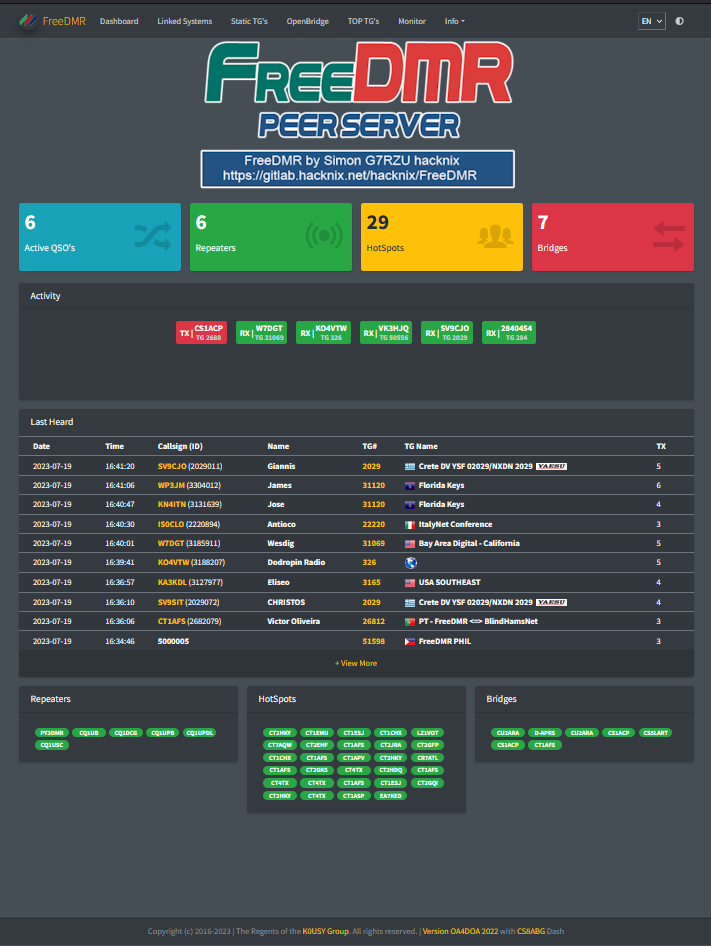
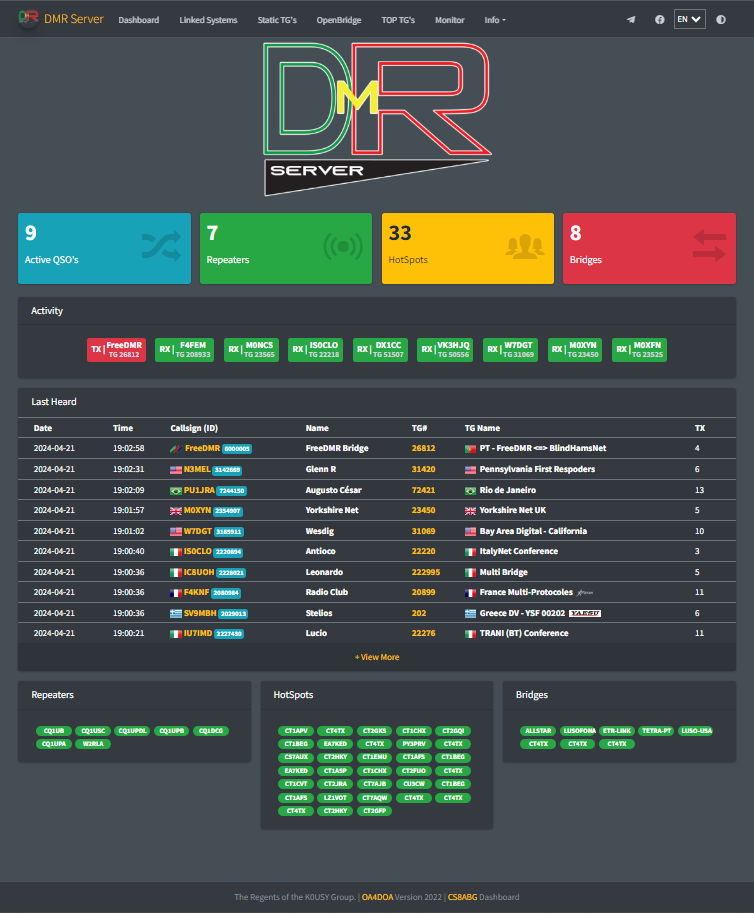
debranding

diff --git a/html/include/navbar.php b/html/include/navbar.php
@@ -1,9 +1,9 @@
 <nav class="main-header navbar navbar-expand-lg navbar-light navbar-dark text-sm">
     <div class="container text-nowrap">
         <a href="#" class="navbar-brand">
-            <img src="img/Logo_mini.png" alt="FreeDMR" class="brand-image img-circle elevation-3"
+            <img src="img/Logo_mini.png" alt="<?php echo $config['DASHBOARD']['NAVTITLE']; ?>" class="brand-image img-circle elevation-3"
                 style="opacity: .8">
-            <span class="brand-text font-weight-light">FreeDMR</span>
+            <span class="brand-text font-weight-light"><?php echo $config['DASHBOARD']['NAVTITLE']; ?></span>
         </a>
         <button class="navbar-toggler order-1" type="button" data-bs-toggle="collapse" data-bs-target="#navbarCollapse"
             aria-controls="navbarCollapse" aria-expanded="false" aria-label="Toggle navigation">
@@ -40,12 +40,16 @@
                         <li>
                             <a href="index.php?p=calc" class="dropdown-item" id="nav_calc"></a>
                         </li>
-                        <li>
-                            <a href="index.php?p=wwtg" class="dropdown-item" id="nav_tglst"></a>
-                        </li>
-                        <li>
-                            <a href="index.php?p=wwbridges" class="dropdown-item" id="nav_brdglst"></a>
-                        </li>
+                        <?php
+                        if (isset($config['DASHBOARD']['TG_LIST'])) {
+                            echo '<li><a href="index.php?p=wwtg" class="dropdown-item" id="nav_tglst"></a></li>';
+                        }
+                        ?>
+                        <?php
+                        if (isset($config['DASHBOARD']['BRIDGES_LIST'])) {
+                            echo '<li><a href="index.php?p=wwbridges" class="dropdown-item" id="nav_brdglst"></a></li>';
+                        }
+                        ?>
                         <?php
                         if (isset($config['DASHBOARD']['SERVER_LIST'])) {
                             echo '<li><a href="index.php?p=wwservers" class="dropdown-item" id="nav_srvlst"></a></li>';

diff --git a/html/include/footer.php b/html/include/footer.php
@@ -1,13 +1,15 @@
+<!-- Credits: SP2ONG 2019-2022 -->
+<!-- Credits: OA4DOA 2022 -->
+<!-- THIS COPYRIGHT NOTICE MUST BE DISPLAYED AS A CONDITION OF THE LICENCE GRANT FOR THIS SOFTWARE. ALL DERIVATEIVES WORKS MUST CARRY THIS NOTICE -->
 <div class="text-center d-none d-sm-inline">
         <div><?php
         if (isset($config['DASHBOARD']['FOOTER1']) && !empty($config['DASHBOARD']['FOOTER1'])) {
             $footer1Value = $config['DASHBOARD']['FOOTER1'];
             echo $footer1Value . ' | ';
         }
-        ?>Copyright (c) 2016-2023 | The Regents of the <a
-                        target="_blank" href=http://k0usy.mystrikingly.com>K0USY Group</a>. All rights reserved. | <a
+        ?>The Regents of the K0USY Group. | <a
                         title="FDMR Monitor OA4DOA v270422" target="_blank"
-                        href="https://github.com/yuvelq/FDMR-Monitor.git">Version OA4DOA 2022</a> with <a title="CS8ABG Dash v24.04.02" href=https://github.com/CS8ABG/FDMR-Monitor.git>CS8ABG</a> Dash
+                        href="https://github.com/yuvelq/FDMR-Monitor.git">OA4DOA</a> Version 2022 | <a title="CS8ABG Dash v24.04" href=https://github.com/CS8ABG/FDMR-Monitor.git>CS8ABG</a> Dashboard
                         <?php
         if (isset($config['DASHBOARD']['FOOTER2']) && !empty($config['DASHBOARD']['FOOTER2'])) {
             $footer2Value = $config['DASHBOARD']['FOOTER2'];
@@ -16,6 +18,3 @@
         ?>
                 </div>
 </div>
-<!-- Credits: SP2ONG 2019-2022 -->
-<!-- Credits: OA4DOA 2022 -->
-<!-- THIS COPYRIGHT NOTICE MUST BE DISPLAYED AS A CONDITION OF THE LICENCE GRANT FOR THIS SOFTWARE. ALL DERIVATEIVES WORKS MUST CARRY THIS NOTICE -->

diff --git a/config.py b/config.py
@@ -60,9 +60,9 @@ def mk_config(cfg_file):
                     "LCL_PEER": conf.get(section, "LOCAL_PEER_FILE"),
                     "LCL_TGID": conf.get(section, "LOCAL_TGID_FILE"),
                     "RELOAD_TIME": conf.getint(section, "RELOAD_TIME", fallback=7) * 864000,
-                    "PEER_URL": conf.get(section, "PEER_URL", fallback="http://freedmr.cymru/talkgroups/rptrs.json"),
-                    "SUBS_URL": conf.get(section, "SUBSCRIBER_URL", fallback="http://freedmr.cymru/talkgroups/local_subscriber_ids.csv"),
-                    "TGID_URL": conf.get(section, "TGID_URL", fallback="http://downloads.freedmr.uk/downloads/UKtalkgroup_ids.json")
+                    "PEER_URL": conf.get(section, "PEER_URL"),
+                    "SUBS_URL": conf.get(section, "SUBSCRIBER_URL"),
+                    "TGID_URL": conf.get(section, "TGID_URL")
                     }
             elif section == "LOGGER":
                 CONF["LOG"] = {

diff --git a/html/include/wwbridges.php b/html/include/wwbridges.php
@@ -18,7 +18,7 @@
                 <tbody>
                   <?php
                     // URL of the CSV file
-                    $csvFile = 'https://freedmr.cymru/talkgroups/Talkgroups_Bridges.csv';
+                    $csvFile = $config['DASHBOARD']['BRIDGES_LIST'];
 
                     // Read the CSV file
                     $fileHandle = fopen($csvFile, 'r');

diff --git a/html/include/wwtg.php b/html/include/wwtg.php
@@ -18,7 +18,7 @@
                 <tbody>
                   <?php
                     // URL of the CSV file
-                    $csvFile = 'https://freedmr.cymru/talkgroups/Talkgroups_FreeDMR.csv';
+                    $csvFile = $config['DASHBOARD']['TG_LIST'];
 
                     // Read the CSV file
                     $fileHandle = fopen($csvFile, 'r');

diff --git a/README.md b/README.md
@@ -1,30 +1,9 @@
-**Dashboard for FreeDMR Servers**
+**Dashboard for FDMR Servers**
 
 ![Dashboard](./screenshot.png)
 
 ***This version has been forked from FDMR Monitor by OA4DOA.***
 
-
-## Changes to the Dashboard
-
-*** 2024/04/02 ***
-- Fix otions calculator errors
-- Added docker support https://github.com/CS8ABG/FDMR-Monitor/tree/main/docker
-
-*** 2023/07/29 ***
-- Added new flags.
-- Introduced a new stanza called `DASHBOARD` in the configuration file(fdmr-mon.cfg).
-- Users can now customize the dashboard settings using the `DASHBOARD` stanza.
-- Display country flag before callsign in the lastheard table.
-- Added power, latitude, longitude, and height in repeater/hotspot descriptions.
-- Improved layout: Boxes and tables now hide when no repeaters, hotspots, or bridges are present.
-
-*** 2023/07/23 ***
-- The dashboard is now fully responsive and adapts to different screen sizes and devices.
-- Users can now switch between dark and light mode for a more comfortable viewing experience.
-- The dashboard now supports multiple languages, making it more accessible to users around the world.
-- The main page of the dashboard now displays the number of active QSOs, connected repeaters, hotspots, and bridges.
-- An new options calculator has been integrated into the dashboard for easy use.
 
 ## Flags:
 ***Flags have been introduced to add visual indicators for Talkgroups (TG) or DMR IDs. To enable flags for specific TGs or DMR IDs, follow these steps:***
